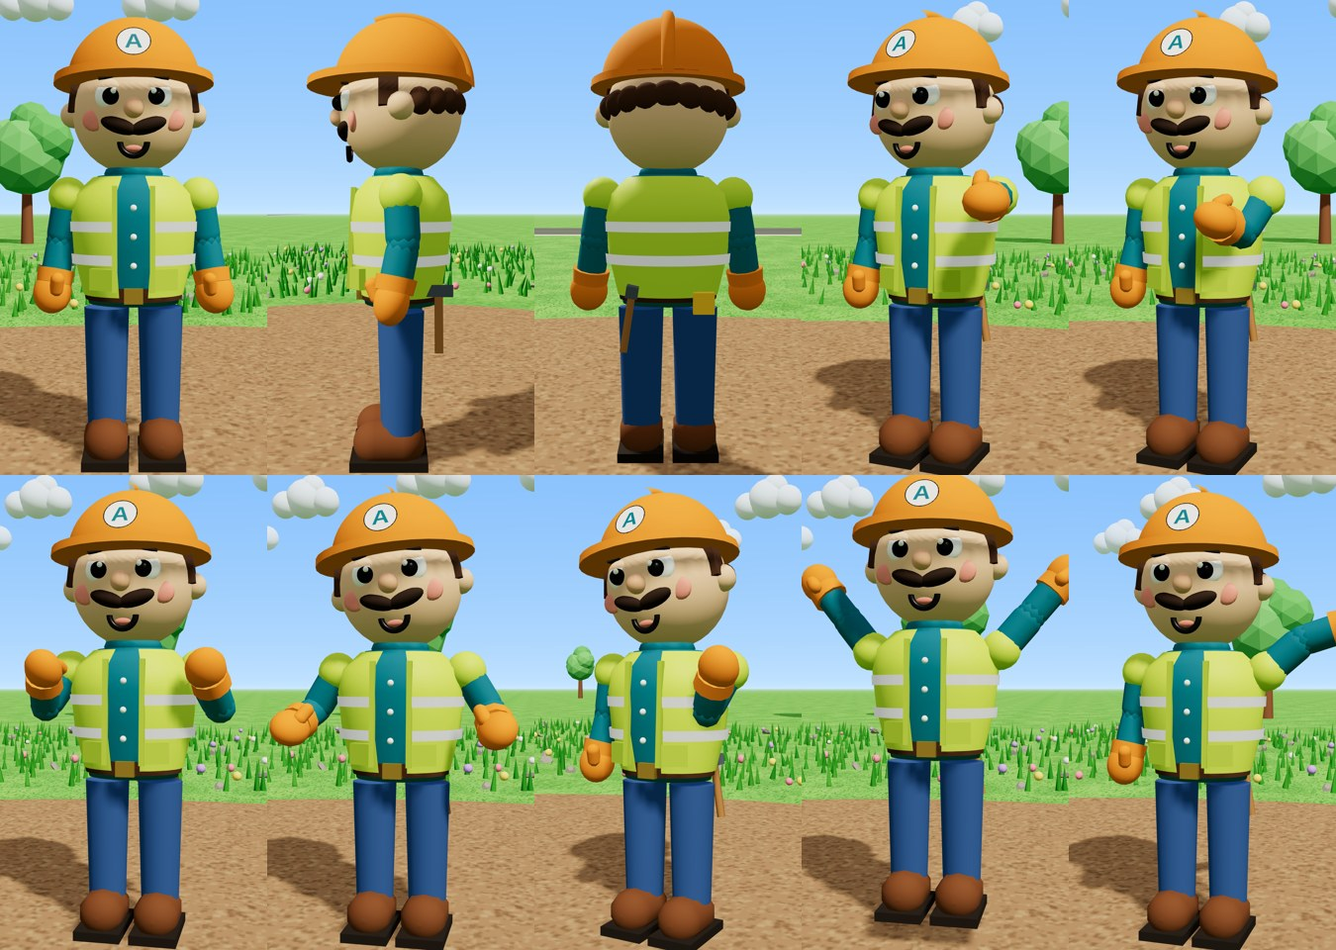
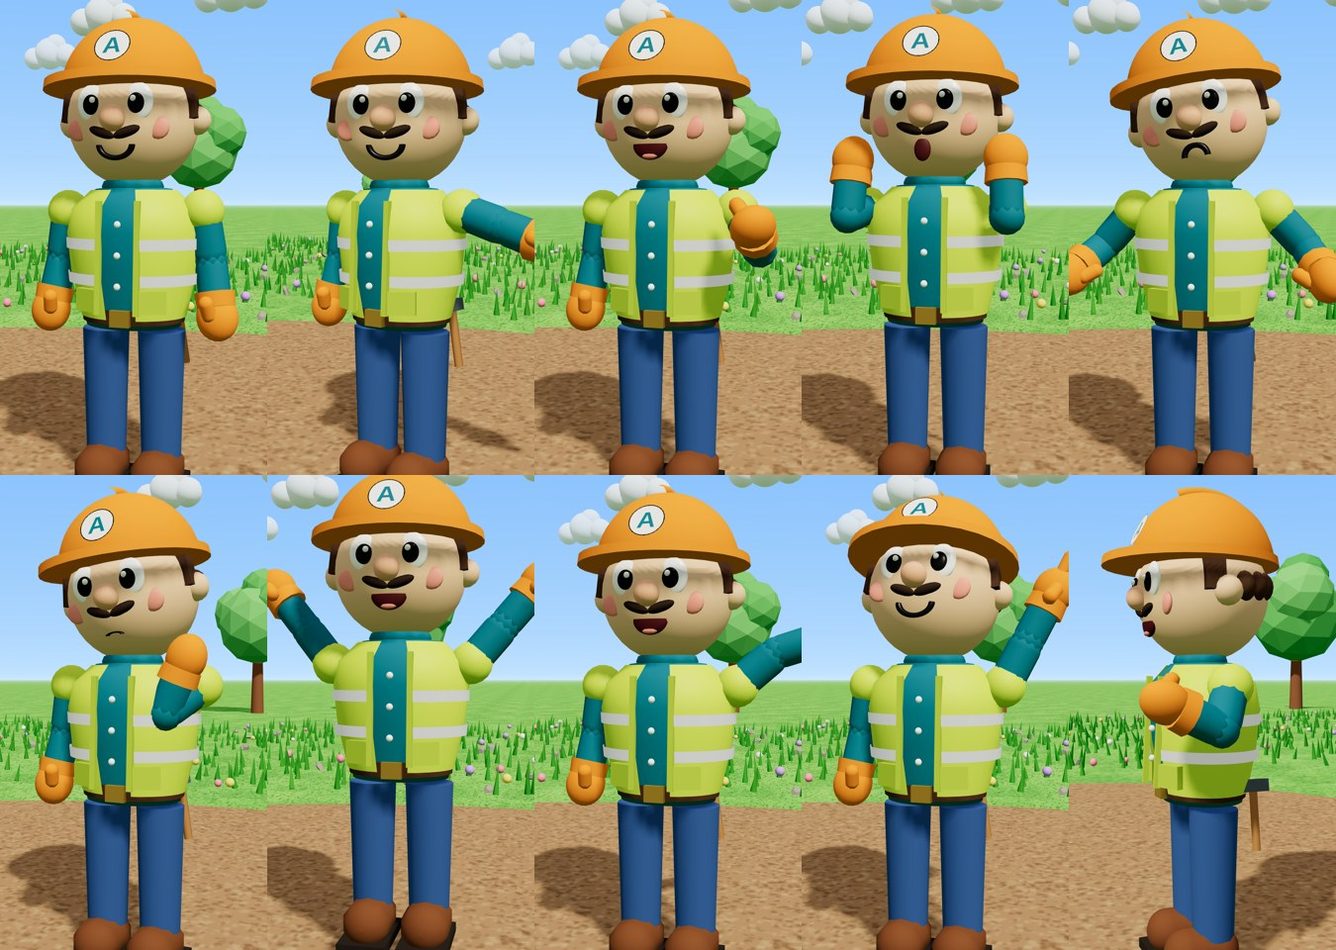
Mascote: rosto de desenho (olhos grandes, sobrancelhas em arco, boca visível), expressões por pose, dedo para apontar; céu cheio; cenário de cidade
Claude-Session: https://claude.ai/code/session_01KB6dFe4wDJK4gqvbKW4MiZ

diff --git a/template/web/kit.js b/template/web/kit.js
@@ -55,10 +55,13 @@ export function setup(canvas, W = 1080, H = 1920) {
   renderer.localClippingEnabled = true; renderer.outputColorSpace = THREE.SRGBColorSpace; renderer.toneMapping = THREE.ACESFilmicToneMapping; renderer.toneMappingExposure = 1.15;
   const scene = new THREE.Scene();
   const camera = new THREE.PerspectiveCamera(40, W / H, 0.05, 2000);
-  const sky = new THREE.Mesh(new THREE.SphereGeometry(900, 32, 16), new THREE.ShaderMaterial({
-    side: THREE.BackSide, depthWrite: false, fog: false,
+  const sky = new THREE.Mesh(new THREE.SphereGeometry(900, 48, 24), new THREE.ShaderMaterial({
+    side: THREE.BackSide, depthWrite: false, fog: false, uniforms: { sunDir: { value: new THREE.Vector3(0.45, 0.42, -0.79).normalize() } },
     vertexShader: `varying vec3 vP; void main(){ vP = normalize(position); gl_Position = projectionMatrix*modelViewMatrix*vec4(position,1.); }`,
-    fragmentShader: `varying vec3 vP; void main(){ float h = clamp(vP.y,0.,1.); vec3 c = mix(vec3(.78,.90,1.), vec3(.30,.62,.98), pow(h,.6)); gl_FragColor = vec4(c,1.); }`,
+    fragmentShader: `uniform vec3 sunDir; varying vec3 vP; void main(){ float h = clamp(vP.y,0.,1.);
+      vec3 c = mix(vec3(.86,.93,1.), vec3(.42,.68,.98), smoothstep(0.,.35,h)); c = mix(c, vec3(.22,.5,.92), smoothstep(.35,1.,h));
+      float s = max(dot(normalize(vP), sunDir), 0.); c += vec3(1.,.92,.7)*(.35*pow(s,8.) + 1.2*smoothstep(.9985,.9992,s));
+      gl_FragColor = vec4(c,1.); }`,
   }));
   scene.add(sky);
   scene.add(new THREE.HemisphereLight('#ffffff', '#8fae6a', 1.25));
@@ -134,10 +137,20 @@ export function neighborhood(scene, o = {}) {
     else if (np < 160) { dm.position.set(x, 0.02, z); dm.rotation.set(r() * 3, r() * 3, r() * 3); dm.scale.set(1 + r(), 0.5 + r() * 0.4, 1 + r()); dm.updateMatrix(); pb.setMatrixAt(np++, dm.matrix); }
   }
   tufts.count = n; fl.count = nf; pb.count = np; for (const im of [tufts, fl, pb]) { im.receiveShadow = true; g.add(im); }
-  for (let k = 0; k < 7; k++) cloud(g, [-70 + k * 24 + r() * 8, 34 + r() * 10, -100 - r() * 40], 2.5 + r() * 2);
+  sky(g, r);
   return g;
 }
 /** casa de fundo: paredes, telhado de duas águas com beiral, janelas com moldura, porta, chaminé, degrau, arbustos */
+/** céu cheio: nuvens em 3 distâncias, morros azulados no horizonte, pássaros */
+export function sky(g, r = rng(5), o = {}) {
+  for (let k = 0; k < 9; k++) cloud(g, [-110 + k * 27 + r() * 10, 40 + r() * 16, -150 - r() * 50], 3 + r() * 2.5);
+  for (let k = 0; k < 7; k++) cloud(g, [-55 + k * 17 + r() * 6, 22 + r() * 7, -70 - r() * 20], 1.8 + r() * 1.4);
+  for (let k = 0; k < 4; k++) cloud(g, [-26 + k * 15 + r() * 6, 13 + r() * 4, -38 - r() * 8], 1.1 + r() * 0.7);
+  if (o.hills !== false) { const hm = [mat('#8fbf8a'), mat('#9cc6a6'), mat('#a9cbb8')];
+    for (let k = 0; k < 16; k++) { const rr = 25 + r() * 30; const hh = add(g, new THREE.SphereGeometry(rr, 20, 10), hm[k % 3], [-220 + k * 30 + r() * 10, -rr * 0.55, -190 - r() * 40], { cast: false }); hh.scale.y = 0.5 + r() * 0.3; } }
+  const bm = mat('#2d2f36'); const bird = (x, y, z, sc) => { const bg = group(g, [x, y, z]); for (const sx of [-1, 1]) { const w = add(bg, new THREE.BoxGeometry(0.5 * sc, 0.06 * sc, 0.12 * sc), bm, [sx * 0.22 * sc, 0, 0], { cast: false }); w.rotation.z = sx * 0.4; } };
+  for (let k = 0; k < 6; k++) bird(-8 + k * 1.3 + r(), 14 + r() * 2.5, -30 - r() * 4, 1 + r() * 0.3);
+}
 export function house(parent, pos, o = {}) {
   const r = rng(o.seed ?? 1); const w = o.w ?? 7, d = o.d ?? 6, fl = o.floors ?? 1, hf = 2.8, h = hf * fl + 0.3;
   const hg = group(parent, pos); if (o.rotY) hg.rotation.y = o.rotY; const wall = mat(o.color ?? '#f4efe4'), trim = M.white;
@@ -252,51 +265,66 @@ export function mascot(parent, pos = [0, 0, 0], s = 1) {
     add(a, new THREE.SphereGeometry(0.088, 12, 10), vest, [0, 0, 0]); add(a, new THREE.CapsuleGeometry(0.07, 0.13, 4, 10), M.teal, [0, -0.1, 0]);
     const el = group(a, [0, -0.2, 0]); add(el, new THREE.SphereGeometry(0.068, 10, 8), M.teal, [0, 0, 0]); add(el, new THREE.CapsuleGeometry(0.066, 0.1, 4, 10), M.teal, [0, -0.08, 0]);
     add(el, new THREE.CylinderGeometry(0.083, 0.078, 0.06, 12), glove, [0, -0.16, 0]);
-    const hand = add(el, new THREE.SphereGeometry(0.09, 14, 12), glove, [0, -0.23, 0]); hand.scale.set(0.95, 1.05, 0.8);
-    add(el, new THREE.CapsuleGeometry(0.03, 0.05, 4, 8), glove, [-sx * 0.02, -0.2, 0.075], { rot: [0.6, 0, 0] }); a.userData.elbow = el; arms.push(a); }
+    const hg = group(el, [0, -0.23, 0]); const hand = add(hg, new THREE.SphereGeometry(0.09, 14, 12), glove, [0, 0, 0]); hand.scale.set(0.95, 1.05, 0.8);
+    const thumb = add(hg, new THREE.CapsuleGeometry(0.03, 0.05, 4, 8), glove, [-sx * 0.02, 0.03, 0.075], { rot: [0.6, 0, 0] });
+    const index = add(hg, new THREE.CapsuleGeometry(0.026, 0.09, 4, 8), glove, [0, -0.1, 0.02]); index.visible = false;   // dedo indicador (só ao apontar)
+    a.userData = { elbow: el, hand: hg, thumb, index, sx }; arms.push(a); }
   // cabeça grande
-  const head = group(body, [0, 1.52, 0]);
+  const head = group(body, [0, 1.52, 0]); const brows = [];
   add(head, new THREE.SphereGeometry(0.27, 28, 20), M.skin, [0, 0, 0]);
   for (const sx of [-1, 1]) { add(head, new THREE.SphereGeometry(0.058, 10, 8), M.skin, [sx * 0.265, -0.01, 0]);
     const sb = box(head, [0.04, 0.12, 0.08], mat('#5a3d2b'), [sx * 0.255, 0.05, 0.05]); sb.rotation.z = sx * 0.12; }
   const hairM = mat('#5a3d2b', { roughness: 0.9 });   // cabelo castanho em tufos na nuca (abaixo do capacete)
   for (let k = 0; k < 9; k++) { const ang = Math.PI * (1.1 + k * 0.1); const hs = add(head, new THREE.SphereGeometry(0.075, 12, 10), hairM, [Math.cos(ang) * 0.232, 0.035 - Math.abs(k - 4) * 0.006, Math.sin(ang) * 0.232], { cast: false }); hs.scale.set(1, 0.85, 0.75); }
+  // rosto de desenho: olhos grandes achatados olhando para frente, sobrancelhas em arco, nariz redondo, bigode curto acima da boca
   for (const sx of [-1, 1]) {
-    const e = add(head, new THREE.SphereGeometry(0.062, 16, 12), white, [sx * 0.095, 0.035, 0.222], { cast: false }); e.scale.z = 0.6;
-    add(head, new THREE.SphereGeometry(0.034, 12, 10), eyeM, [sx * 0.092, 0.028, 0.26], { cast: false });
-    add(head, new THREE.SphereGeometry(0.012, 8, 6), white, [sx * 0.081, 0.044, 0.288], { cast: false });
-    const lid = add(head, new THREE.SphereGeometry(0.066, 16, 8, 0, Math.PI * 2, 0, Math.PI * 0.32), M.skin, [sx * 0.095, 0.037, 0.221], { cast: false }); lid.scale.z = 0.62; lid.rotation.x = 0.25;
-    const bw = box(head, [0.1, 0.028, 0.03], hair, [sx * 0.095, 0.12, 0.236], { cast: false }); bw.rotation.z = -sx * 0.14;
-    const ck = add(head, new THREE.SphereGeometry(0.046, 10, 8), mat('#f39a8c'), [sx * 0.165, -0.06, 0.2], { cast: false }); ck.scale.z = 0.4;
-    const mu = add(head, new THREE.SphereGeometry(0.072, 14, 10), hair, [sx * 0.056, -0.087, 0.236], { cast: false }); mu.scale.set(1.12, 0.46, 0.55); mu.rotation.z = sx * 0.28;
+    const e = add(head, new THREE.SphereGeometry(0.068, 20, 14), white, [sx * 0.092, 0.04, 0.236], { cast: false }); e.scale.set(0.85, 1.05, 0.32);
+    const pu = add(head, new THREE.SphereGeometry(0.036, 16, 12), eyeM, [sx * 0.088, 0.032, 0.258], { cast: false }); pu.scale.set(0.9, 1.05, 0.35);
+    add(head, new THREE.SphereGeometry(0.012, 8, 6), white, [sx * 0.08, 0.048, 0.268], { cast: false });
+    const bw = add(head, new THREE.TorusGeometry(0.05, 0.013, 6, 14, Math.PI * 0.8), hair, [sx * 0.092, 0.1, 0.238], { cast: false }); bw.rotation.z = Math.PI * 0.1; bw.userData.sx = sx; brows.push(bw);
+    const ck = add(head, new THREE.SphereGeometry(0.044, 10, 8), mat('#f39a8c'), [sx * 0.16, -0.055, 0.205], { cast: false }); ck.scale.z = 0.35;
+    const mu = add(head, new THREE.SphereGeometry(0.05, 14, 10), hair, [sx * 0.045, -0.072, 0.245], { cast: false }); mu.scale.set(1.15, 0.42, 0.45); mu.rotation.z = sx * 0.3;
   }
-  add(head, new THREE.SphereGeometry(0.042, 12, 10), mat('#eab28c'), [0, -0.02, 0.272], { cast: false });
-  const smile = add(head, new THREE.TorusGeometry(0.055, 0.013, 6, 14, Math.PI), eyeM, [0, -0.152, 0.226], { cast: false }); smile.rotation.z = Math.PI;
-  add(head, new THREE.SphereGeometry(0.03, 8, 6), mat('#e0857a'), [0, -0.178, 0.226], { cast: false }).scale.set(1.2, 0.5, 0.5);
+  add(head, new THREE.SphereGeometry(0.05, 14, 12), mat('#eeb28e'), [0, -0.022, 0.27], { cast: false });
+  const smile = add(head, new THREE.TorusGeometry(0.065, 0.013, 6, 16, Math.PI), eyeM, [0, -0.118, 0.232], { cast: false }); smile.rotation.z = Math.PI; smile.scale.y = 0.75;
+  const tongue = add(head, new THREE.SphereGeometry(0.026, 8, 6), mat('#e0857a'), [0, -0.16, 0.236], { cast: false }); tongue.scale.set(1.2, 0.45, 0.4);
+  const mouthM = mat('#5a1f24', { roughness: 0.6 });
+  const mouthO = add(head, new THREE.SphereGeometry(0.04, 14, 10), mouthM, [0, -0.15, 0.24], { cast: false }); mouthO.scale.set(0.8, 1.1, 0.3); mouthO.visible = false;
+  const grin = add(head, new THREE.SphereGeometry(0.07, 16, 10, 0, Math.PI * 2, Math.PI / 2, Math.PI / 2), mouthM, [0, -0.115, 0.226], { cast: false }); grin.scale.set(1, 0.85, 0.32); grin.visible = false;
+  const frown = add(head, new THREE.TorusGeometry(0.045, 0.012, 6, 14, Math.PI), eyeM, [0, -0.165, 0.236], { cast: false }); frown.visible = false;
+  const face = (e) => { smile.visible = e === 'smile'; tongue.visible = e === 'grin'; mouthO.visible = e === 'o'; grin.visible = e === 'grin'; frown.visible = e === 'worried' || e === 'hmm';
+    if (e === 'hmm') { frown.scale.set(0.7, 0.25, 1); } else frown.scale.set(1, 1, 1);
+    brows.forEach((b) => { const sx = b.userData.sx; b.position.y = 0.1; b.rotation.z = Math.PI * 0.1;
+      if (e === 'o') b.position.y = 0.125;
+      if (e === 'worried') { b.position.y = 0.11; b.rotation.z = Math.PI * 0.1 + sx * 0.35; }
+      if (e === 'grin') b.position.y = 0.11;
+      if (e === 'hmm' && sx > 0) b.position.y = 0.125; }); };
   // capacete laranja: casco, faixa da base, aba, crista e emblema "A"
-  add(head, new THREE.SphereGeometry(0.295, 28, 14, 0, Math.PI * 2, 0, Math.PI / 2), M.orange, [0, 0.11, 0]);
-  const band = add(head, new THREE.TorusGeometry(0.293, 0.018, 6, 32), mat('#d9741a'), [0, 0.125, 0], { rot: [Math.PI / 2, 0, 0] });
-  const brim = add(head, new THREE.CylinderGeometry(0.34, 0.345, 0.035, 32), M.orange, [0, 0.125, 0.05]); brim.scale.z = 1.05;
-  add(head, new THREE.TorusGeometry(0.297, 0.028, 8, 28, Math.PI * 0.62), M.orange, [0, 0.11, 0], { rot: [0, Math.PI / 2, 0] });
+  add(head, new THREE.SphereGeometry(0.295, 28, 14, 0, Math.PI * 2, 0, Math.PI / 2), M.orange, [0, 0.135, 0]);
+  const band = add(head, new THREE.TorusGeometry(0.293, 0.018, 6, 32), mat('#d9741a'), [0, 0.15, 0], { rot: [Math.PI / 2, 0, 0] });
+  const brim = add(head, new THREE.CylinderGeometry(0.34, 0.345, 0.035, 32), M.orange, [0, 0.15, 0.05]); brim.scale.z = 1.05;
+  add(head, new THREE.TorusGeometry(0.297, 0.028, 8, 28, Math.PI * 0.62), M.orange, [0, 0.135, 0], { rot: [0, Math.PI / 2, 0] });
   const bc = document.createElement('canvas'); bc.width = bc.height = 128; const bg = bc.getContext('2d');
   bg.fillStyle = '#ffffff'; bg.beginPath(); bg.arc(64, 64, 60, 0, 7); bg.fill(); bg.fillStyle = '#1f7a8c'; bg.font = '900 92px Inter, Arial Black, sans-serif'; bg.textAlign = 'center'; bg.textBaseline = 'middle'; bg.fillText('A', 64, 70);
   const bt2 = new THREE.CanvasTexture(bc); bt2.colorSpace = THREE.SRGBColorSpace;
-  const badge = add(head, new THREE.CircleGeometry(0.07, 24), new THREE.MeshStandardMaterial({ map: bt2, roughness: 0.5 }), [0, 0.245, 0.268], { cast: false }); badge.rotation.x = -0.47;
+  const badge = add(head, new THREE.CircleGeometry(0.07, 24), new THREE.MeshStandardMaterial({ map: bt2, roughness: 0.5 }), [0, 0.27, 0.262], { cast: false }); badge.rotation.x = -0.5;
   const props = {};
   // poses: idle, point (braço direito para frente), wave, up (comemora), shrug, think, umbrella, hot (abanando)
+  // poses: idle, point, pointUp, thumb, wave, up (comemora), shrug, scared (mãos no rosto), think (mão no queixo), walk
+  // convenção: braço ESQUERDO (L, x<0) abre com rotação z NEGATIVA; DIREITO (R, x>0) abre com z POSITIVA
   const pose = (name, t) => {
-    const b = Math.sin(t * 3.2) * 0.012; body.position.y = b; head.rotation.set(0, 0, 0); legs.forEach((l) => l.rotation.set(0, 0, 0));
+    const b = Math.sin(t * 3.2) * 0.012; body.position.y = b; head.rotation.set(0, 0, 0); legs.forEach((l) => l.rotation.set(0, 0, 0)); body.rotation.set(0, 0, 0);
     const [L, R] = arms, EL = L.userData.elbow, ER = R.userData.elbow;
-    // convenção: braço ESQUERDO (L, x<0) abre com rotação z NEGATIVA; DIREITO (R, x>0) abre com z POSITIVA
-    L.rotation.set(0.05, 0, -0.16); R.rotation.set(0.05, 0, 0.16); EL.rotation.set(-0.25, 0, 0); ER.rotation.set(-0.25, 0, 0);
-    if (name === 'point') { R.rotation.set(-1.45, 0, 0.2); ER.rotation.set(-0.1, 0, 0); head.rotation.y = -0.15; }
-    if (name === 'pointUp') { R.rotation.set(-0.3, 0, 2.6); ER.rotation.set(0, 0, 0); head.rotation.x = -0.2; }
-    if (name === 'wave') { R.rotation.set(-0.2, 0, 2.3); ER.rotation.set(0, 0, -0.3 + Math.sin(t * 10) * 0.35); }
-    if (name === 'up') { L.rotation.set(-0.2, 0, -2.45 - Math.sin(t * 9) * 0.1); R.rotation.set(-0.2, 0, 2.45 + Math.sin(t * 9) * 0.1); EL.rotation.set(0, 0, 0); ER.rotation.set(0, 0, 0); body.position.y = Math.abs(Math.sin(t * 6)) * 0.12; }
-    if (name === 'shrug') { L.rotation.set(0, 0, -0.55); R.rotation.set(0, 0, 0.55); EL.rotation.set(-1.2, 0, 0); ER.rotation.set(-1.2, 0, 0); head.rotation.z = 0.12; }
-    if (name === 'scared') { L.rotation.set(-0.4, 0, -0.5); R.rotation.set(-0.4, 0, 0.5); EL.rotation.set(-2.0, 0, 0); ER.rotation.set(-2.0, 0, 0); body.position.y = Math.abs(Math.sin(t * 20)) * 0.03; }
-    if (name === 'think') { R.rotation.set(-0.5, 0, -0.3); ER.rotation.set(-2.2, 0, 0.3); head.rotation.z = 0.12; }
-    if (name === 'thumb') { R.rotation.set(-0.6, 0, -0.35); ER.rotation.set(-1.2, 0, 0); }
+    for (const a of arms) { a.userData.index.visible = false; a.userData.hand.rotation.set(0, 0, 0); a.userData.thumb.rotation.set(0.6, 0, 0); a.userData.thumb.position.set(-a.userData.sx * 0.02, 0.03, 0.075); }
+    L.rotation.set(0.05, 0, -0.16); R.rotation.set(0.05, 0, 0.16); EL.rotation.set(-0.25, 0, 0); ER.rotation.set(-0.25, 0, 0); face('smile');
+    if (name === 'point') { R.rotation.set(-0.45, 0, 1.25); ER.rotation.set(0, 0, 0); R.userData.index.visible = true; head.rotation.y = 0.35; }
+    if (name === 'pointUp') { R.rotation.set(-0.2, 0, 2.7); ER.rotation.set(0, 0, 0); R.userData.index.visible = true; head.rotation.x = -0.25; }
+    if (name === 'thumb') { R.rotation.set(-0.5, 0, 0.55); ER.rotation.set(-1.5, 0, 0); R.userData.hand.rotation.set(0, 0, 0); R.userData.thumb.position.set(-0.01, 0.0, 0.085); R.userData.thumb.rotation.set(-1.9, 0, 0); face('grin'); }
+    if (name === 'wave') { R.rotation.set(-0.2, 0, 2.3); ER.rotation.set(0, 0, -0.3 + Math.sin(t * 10) * 0.35); face('grin'); }
+    if (name === 'up') { L.rotation.set(-0.2, 0, -2.45 - Math.sin(t * 9) * 0.1); R.rotation.set(-0.2, 0, 2.45 + Math.sin(t * 9) * 0.1); EL.rotation.set(0, 0, 0); ER.rotation.set(0, 0, 0); body.position.y = Math.abs(Math.sin(t * 6)) * 0.12; face('grin'); }
+    if (name === 'shrug') { L.rotation.set(0.1, 0, -0.75); R.rotation.set(0.1, 0, 0.75); EL.rotation.set(-1.0, 0.6, 0); ER.rotation.set(-1.0, -0.6, 0); head.rotation.z = 0.15; face('worried'); }
+    if (name === 'scared') { L.rotation.set(-1.4, 0, -0.12); R.rotation.set(-1.4, 0, 0.12); EL.rotation.set(-1.95, 0, 0); ER.rotation.set(-1.95, 0, 0); body.position.y = Math.abs(Math.sin(t * 22)) * 0.025; face('o'); }
+    if (name === 'think') { R.rotation.set(-0.9, 0, -0.55); ER.rotation.set(-2.35, 0, 0); head.rotation.set(0.05, 0, 0.12); face('hmm'); }
     if (name === 'walk') { const w = Math.sin(t * 8); legs[0].rotation.x = w * 0.5; legs[1].rotation.x = -w * 0.5; L.rotation.x = -w * 0.4; R.rotation.x = w * 0.4; }
   };
   return { root, body, head, arms, legs, pose, props };
@@ -378,4 +406,57 @@ export function overlay(ctx, camera, W, H) {
     },
     proj,
   };
+}
+
+// ---------- cenário de CIDADE: prédios com janelas, rua com faixa de pedestre, calçadas, postes, semáforo, carros, árvores em canteiros ----------
+export function city(scene, o = {}) {
+  const g = group(scene); const r = rng(o.seed ?? 11); const roadZ = o.roadZ ?? 8;
+  const site = o.site ?? { x0: -5, x1: 5, z0: -3, z1: 3 };
+  // chão: calçada em placas + rua de asfalto
+  const pc = document.createElement('canvas'); pc.width = pc.height = 256; const px = pc.getContext('2d'); px.fillStyle = '#cfcac1'; px.fillRect(0, 0, 256, 256);
+  for (let i = 0; i < 2500; i++) { px.fillStyle = `rgba(${r() < 0.5 ? '90,90,90' : '255,255,255'},.08)`; px.fillRect(r() * 256, r() * 256, 2, 2); }
+  px.strokeStyle = 'rgba(110,105,98,.6)'; px.lineWidth = 3; for (let k = 0; k <= 256; k += 64) { px.beginPath(); px.moveTo(k, 0); px.lineTo(k, 256); px.stroke(); px.beginPath(); px.moveTo(0, k); px.lineTo(256, k); px.stroke(); }
+  const pt = new THREE.CanvasTexture(pc); pt.wrapS = pt.wrapT = THREE.RepeatWrapping; pt.repeat.set(300, 300); pt.colorSpace = THREE.SRGBColorSpace;
+  const ground = add(g, new THREE.PlaneGeometry(600, 600), mat('#ffffff', { map: pt }), [0, 0, 0], { cast: false }); ground.rotation.x = -Math.PI / 2;
+  const ac = document.createElement('canvas'); ac.width = ac.height = 256; const ax = ac.getContext('2d'); ax.fillStyle = '#55595f'; ax.fillRect(0, 0, 256, 256);
+  for (let i = 0; i < 6000; i++) { const v = 60 + r() * 50 | 0; ax.fillStyle = `rgb(${v},${v},${v + 4})`; ax.fillRect(r() * 256, r() * 256, 1 + r() * 2, 1 + r() * 2); }
+  const at = new THREE.CanvasTexture(ac); at.wrapS = at.wrapT = THREE.RepeatWrapping; at.repeat.set(100, 2); at.colorSpace = THREE.SRGBColorSpace;
+  const road = add(g, new THREE.PlaneGeometry(600, 8), mat('#ffffff', { map: at }), [0, 0.012, roadZ], { cast: false }); road.rotation.x = -Math.PI / 2;
+  for (let x = -100; x < 100; x += 5) { const st = add(g, new THREE.PlaneGeometry(2.4, 0.16), mat('#f2c230'), [x, 0.02, roadZ], { cast: false }); st.rotation.x = -Math.PI / 2; }
+  const cwX = o.crosswalkX ?? 9; for (let k = -3; k <= 3; k++) { const cw = add(g, new THREE.PlaneGeometry(0.55, 3.2), M.white, [cwX + k * 1.0, 0.022, roadZ - 2.1], { cast: false }); cw.rotation.x = -Math.PI / 2; const cw2 = add(g, new THREE.PlaneGeometry(0.55, 3.2), M.white, [cwX + k * 1.0, 0.022, roadZ + 2.1], { cast: false }); cw2.rotation.x = -Math.PI / 2; }
+  for (const sz of [-1, 1]) box(g, [600, 0.15, 0.25], mat('#bdb8ae'), [0, 0.075, roadZ + sz * 4.1], { cast: false });
+  // terreno da obra com terra e tapume
+  const dc = document.createElement('canvas'); dc.width = dc.height = 256; const dx = dc.getContext('2d'); dx.fillStyle = '#a5815c'; dx.fillRect(0, 0, 256, 256);
+  for (let i = 0; i < 5000; i++) { dx.fillStyle = r() < 0.5 ? 'rgba(120,90,60,.5)' : 'rgba(190,160,120,.5)'; dx.fillRect(r() * 256, r() * 256, 1 + r() * 3, 1 + r() * 3); }
+  const dt = new THREE.CanvasTexture(dc); dt.wrapS = dt.wrapT = THREE.RepeatWrapping; dt.repeat.set((site.x1 - site.x0 + 2) / 2, (site.z1 - site.z0 + 2) / 2); dt.colorSpace = THREE.SRGBColorSpace;
+  const dp = add(g, new THREE.PlaneGeometry(site.x1 - site.x0 + 2, site.z1 - site.z0 + 2), mat('#ffffff', { map: dt, roughness: 1 }), [(site.x0 + site.x1) / 2, 0.01, (site.z0 + site.z1) / 2], { cast: false }); dp.rotation.x = -Math.PI / 2;
+  if (o.fence !== false) { const fm = [mat('#f2f2ee'), mat('#1f7a8c')]; const fz = site.z0 - 1.2;
+    for (let x = site.x0 - 1; x < site.x1 + 1; x += 2) { box(g, [1.96, 2.2, 0.06], fm[0], [x + 1, 1.1, fz]); box(g, [1.96, 0.25, 0.07], fm[1], [x + 1, 1.9, fz]); } }
+  // prédios em quadras atrás (z < site.z0 - 4) e do outro lado da rua (longe)
+  const winTex = (base, lit) => { const c = document.createElement('canvas'); c.width = 128; c.height = 256; const x = c.getContext('2d'); x.fillStyle = base; x.fillRect(0, 0, 128, 256);
+    for (let yy = 8; yy < 256; yy += 32) for (let xx = 8; xx < 128; xx += 30) { x.fillStyle = r() < lit ? '#ffe9a8' : (r() < 0.5 ? '#7fa8c9' : '#5f88ab'); x.fillRect(xx, yy, 20, 20); x.fillStyle = 'rgba(255,255,255,.35)'; x.fillRect(xx, yy, 20, 3); }
+    const t = new THREE.CanvasTexture(c); t.wrapS = t.wrapT = THREE.RepeatWrapping; t.colorSpace = THREE.SRGBColorSpace; return t; };
+  const cols = ['#e9e1d3', '#d9c6b0', '#c9d6e3', '#e7d2c8', '#d2d9cf', '#b9c2cc', '#f0e6cf'];
+  const tower = (x, z, w, d, h) => { const t = winTex(cols[Math.floor(r() * cols.length)], 0.08); t.repeat.set(Math.max(1, Math.round(w / 4)), Math.max(1, Math.round(h / 8)));
+    const b = add(g, new THREE.BoxGeometry(w, h, d), mat('#ffffff', { map: t }), [x, h / 2, z]); box(g, [w + 0.3, 0.5, d + 0.3], mat('#9aa1a8'), [x, h + 0.25, z]);
+    if (r() < 0.6) box(g, [2, 1.6, 2], mat('#8a9097'), [x + (r() - 0.5) * w * 0.5, h + 1.3, z + (r() - 0.5) * d * 0.4]);
+    if (r() < 0.5) cyl(g, 0.9, 1.6, mat('#5d6a74'), [x - w * 0.25, h + 1.3, z - d * 0.2], { seg: 12 });
+    box(g, [w * 0.9, 3, 0.2], mat('#4d6b80', { roughness: 0.3 }), [x, 1.6, z + d / 2 + 0.05], { cast: false }); return b; };
+  for (let row = 0; row < 3; row++) { let x = -70; const z0 = site.z0 - 8 - row * 22;
+    while (x < 70) { const w = 9 + r() * 8, d = 9 + r() * 6, h = 12 + r() * (row === 0 ? 22 : 45); if (Math.abs(x + w / 2 - (site.x0 + site.x1) / 2) > w / 2 + 4 || row > 0) tower(x + w / 2, z0 - d / 2, w, d, h); x += w + 2.5 + r() * 2; } }
+  for (let x = -90; x < 90; x += 14 + r() * 6) tower(x, roadZ + 14 + r() * 4, 10 + r() * 4, 8, 10 + r() * 20);
+  // postes, semáforo, árvores em canteiros, carros
+  const poleM = mat('#5c6168', { metalness: 0.4, roughness: 0.5 });
+  for (let x = -40; x <= 40; x += 12) { cyl(g, 0.07, 6, poleM, [x, 3, roadZ - 4.6], { seg: 8 }); box(g, [1.2, 0.12, 0.12], poleM, [x, 6, roadZ - 4.0]); box(g, [0.5, 0.15, 0.3], mat('#fff6d0', { emissive: '#fff2c0', emissiveIntensity: 0.3 }), [x, 5.92, roadZ - 3.5]); }
+  { const tx = cwX + 4.2, tz = roadZ - 4.7; cyl(g, 0.08, 3.4, poleM, [tx, 1.7, tz], { seg: 8 }); box(g, [0.35, 1.0, 0.3], mat('#2b2f36'), [tx, 3.6, tz + 0.1]);
+    for (const [cy, cc] of [[3.9, '#ff4d4d'], [3.6, '#ffc93c'], [3.3, '#3ddc84']]) add(g, new THREE.SphereGeometry(0.1, 10, 8), mat(cc, { emissive: cc, emissiveIntensity: cy === 3.3 ? 0.9 : 0.1 }), [tx, cy, tz + 0.27], { cast: false }); }
+  for (let x = -34; x <= 34; x += 9) { if (x > site.x0 - 2 && x < site.x1 + 2) continue; box(g, [1.3, 0.3, 1.3], mat('#9a948a'), [x + 4, 0.15, roadZ - 5.6]); tree(g, [x + 4, 0.3, roadZ - 5.6], 0.85); }
+  const car = (x, z, col, rotY = 0) => { const cg = group(g, [x, 0, z]); cg.rotation.y = rotY; const cm = mat(col, { roughness: 0.35, metalness: 0.2 });
+    box(cg, [4.0, 0.75, 1.8], cm, [0, 0.62, 0]); box(cg, [2.2, 0.6, 1.6], cm, [-0.2, 1.28, 0]); box(cg, [2.1, 0.5, 1.62], mat('#2d3b4a', { roughness: 0.15 }), [-0.2, 1.3, 0], { cast: false });
+    for (const [wx, wz] of [[-1.3, -0.85], [1.3, -0.85], [-1.3, 0.85], [1.3, 0.85]]) add(cg, new THREE.CylinderGeometry(0.36, 0.36, 0.25, 16), mat('#1f2125'), [wx, 0.36, wz], { rot: [Math.PI / 2, 0, 0] });
+    for (const sz of [-0.6, 0.6]) add(cg, new THREE.SphereGeometry(0.11, 8, 6), mat('#fff8d8', { emissive: '#fff3c0', emissiveIntensity: 0.4 }), [2.0, 0.75, sz], { cast: false }); };
+  const carCols = ['#e74c3c', '#2f80ed', '#f2c94c', '#ffffff', '#27ae60', '#9b59b6'];
+  for (let k = 0; k < (o.cars ?? 5); k++) car(-28 + k * 13 + r() * 3, roadZ + (k % 2 ? 2 : -2), carCols[k % carCols.length], k % 2 ? Math.PI : 0);
+  sky(g, r, { hills: false });
+  return g;
 }

diff --git a/ESTILO.md b/ESTILO.md
@@ -54,6 +54,8 @@ VERTICAL 1080x1920. Quadro da obra montada (ou do problema mais visual) com o ma
 - **Estilo aprovado pelo dono (teste da verga, 17/11/2026)**: 3D brinquedo colorido, mascote de capacete laranja, parede subindo fiada por fiada, trincas pretas, setas vermelhas/verdes, etiqueta em pílula branca, nome técnico em amarelo. Manter este estilo.
 - **Material tem que ser reconhecível (feedback do dono: "não enxergo o concreto")**: concreto SEMPRE com `K.concreteBox` (cinza com brita e poros), nunca cinza liso; argamassa é bege; aço/armadura cor de ferrugem; madeira com tom de madeira. Dois materiais vizinhos nunca com a mesma cor.
 - **Peça nova ganha destaque**: quando a narração fala dela, `K.highlight(peça, pulso)` + câmera em CLOSE (≥ 1 s) mostrando a textura + etiqueta com o material ("• VIGA DE CONCRETO").
+- **Dois cenários prontos no kit**: `K.neighborhood` (bairro: casas, grama, terra) para obras de CASA e `K.city` (cidade: prédios com janelas, rua com faixa de pedestre, calçada, postes, semáforo, carros, tapume da obra) para PRÉDIOS e obras urbanas. Grandes obras de natureza (ponte, represa, túnel) podem montar o próprio terreno, mas sempre com `K.sky` (céu cheio: sol, nuvens em 3 distâncias, morros, pássaros) — céu vazio é proibido.
+- **Poses e caras (feedback do dono)**: usar as poses do kit, que já trocam a expressão: `idle` (sorriso), `point` (braço para o lado com dedo), `pointUp`, `thumb` (joinha + sorriso aberto), `wave`, `up` (comemora), `shrug` (ombros + preocupado), `scared` (mãos no rosto + boca "O"), `think` (mão no queixo + "hmm"), `walk`. Conferir na prévia que a pose lê em 1 s e que nenhuma mão atravessa nada.
 - **Cenário nunca liso nem simplório (feedback do dono)**: `K.neighborhood` já põe grama com textura, tufos, flores, pedrinhas, terra batida na área da obra (`site`), calçada e meio-fio, casas de fundo com telhado de duas águas, janelas com moldura, porta, chaminé e arbustos, e árvores que NUNCA atravessam casas. Passar `site` com a área da obra. Não colocar objetos soltos sem conferir sobreposição.
 - **Troca de peças dentro da parede**: tijolos que saem precisam de argamassa própria (sem placa bege sobrando) — ver ABOVE/aboveMortar no story.js do template.
 - **Objeto reconhecível em 1 segundo.** Usar a forma ICÔNICA (telha colonial com a curva, tesoura de telhado em triângulo, calha em U). Conferir em close ANTES do render; se não der pra dizer o que é, refazer.
